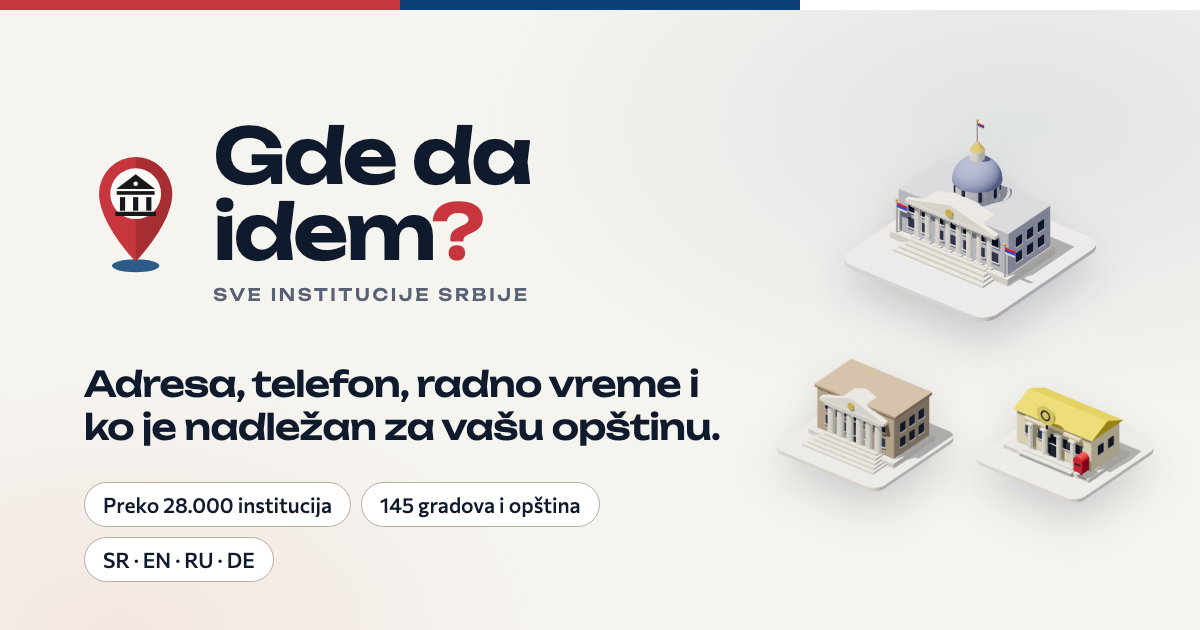
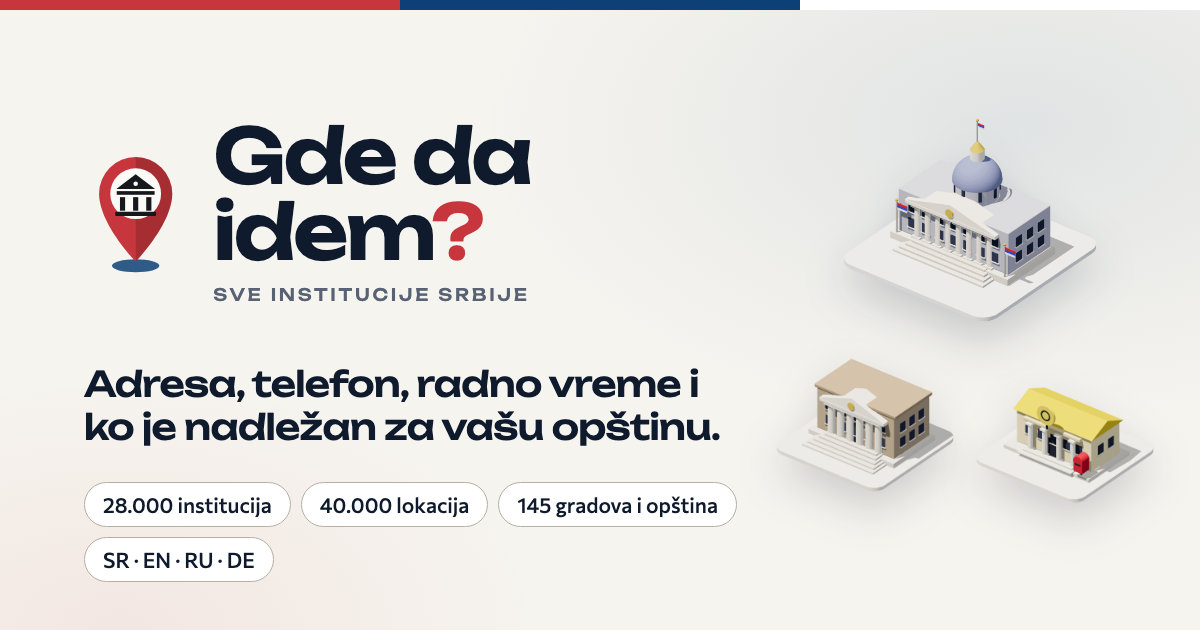
Home totals count places you can go: institutions and locations side by side
The opener and the index tab show the number of locations (seats, branches, buildings, branch schools); the card heading gives both figures and says what a location is. Share image updated.

Changed region(s): [[0.0617, 0.7841, 0.6167, 0.8444]]

diff --git a/apps/web/components/pages.tsx b/apps/web/components/pages.tsx
@@ -123,6 +123,8 @@ export async function Home({ locale }: { locale: Locale }) {
   const allGuides = locale === "sr" ? "Svi vodiči" : locale === "en" ? "All guides" : locale === "ru" ? "Все инструкции" : "Alle Anleitungen";
   const typesLabel = locale === "sr" ? "vrsta institucija" : locale === "en" ? "institution types" : locale === "ru" ? "типов учреждений" : "Einrichtungsarten";
   const mapTitle = locale === "sr" ? "25 okruga, 145 gradova i opština" : locale === "en" ? "25 districts, 145 cities and municipalities" : locale === "ru" ? "25 округов, 145 городов и общин" : "25 Bezirke, 145 Städte und Gemeinden";
+  const locWord = pick(locale, "lokacija", "locations", "адресов", "Standorte");
+  const locLabelLong = pick(locale, "lokacija javnih i privatnih institucija", "locations of public and private institutions", "адресов государственных и частных учреждений", "Standorte öffentlicher und privater Einrichtungen");
   const popular = locale === "sr" ? "Najčešće traženo" : locale === "en" ? "Most searched" : locale === "ru" ? "Часто ищут" : "Häufig gesucht";
   const byGroupAll = GROUPS.map((g) => ({ g, types: types.filter((x) => x.group === g && x.org_count > 0), total: types.filter((x) => x.group === g).reduce((n, x) => n + x.org_count, 0) }));
   const maxGroup = Math.max(1, ...byGroupAll.map((x) => x.total));
@@ -135,7 +137,7 @@ export async function Home({ locale }: { locale: Locale }) {
   return (
     <main id="main">
       {siteLd(locale, d.tagline).map((x, i) => <script key={i} type="application/ld+json" dangerouslySetInnerHTML={{ __html: JSON.stringify(x) }} />)}
-      <Opener words={d.siteName.split(" ")} eyebrow={`${pick(locale, "Republika Srbija", "Republic of Serbia", "Республика Сербия", "Republik Serbien")} · ${new Date().getFullYear()}`} count={stats.orgs} countLabel={d.openerLabel} />
+      <Opener words={d.siteName.split(" ")} eyebrow={`${pick(locale, "Republika Srbija", "Republic of Serbia", "Республика Сербия", "Republik Serbien")} · ${new Date().getFullYear()}`} count={stats.locations} countLabel={locLabelLong} />
       <HeroFX />
       {/* Opening: the search and the 3D map are the centrepiece */}
       <section className="hero-open hero-map border-b border-line">
@@ -162,7 +164,7 @@ export async function Home({ locale }: { locale: Locale }) {
           </div>
           {/* index tabs: the three areas below hang off the map; each tab opens its dossier */}
           <nav className="hero-index" aria-label={T.browse}>
-            {[{ id: "vodici", n: guides.length, l: guidesWord, t: guidesTitle }, { id: "putokaz", n: ROADMAPS.length, l: ROAD_LABELS[locale].count, t: T.bySituation }, { id: "vrste", n: stats.orgs, l: d.institutions, t: d.browseByCategory }, { id: "okruzi", n: stats.jls, l: d.municipalities, t: d.browseByRegion }].map((x, i) => (
+            {[{ id: "vodici", n: guides.length, l: guidesWord, t: guidesTitle }, { id: "putokaz", n: ROADMAPS.length, l: ROAD_LABELS[locale].count, t: T.bySituation }, { id: "vrste", n: stats.locations, l: locWord, t: d.browseByCategory }, { id: "okruzi", n: stats.jls, l: d.municipalities, t: d.browseByRegion }].map((x, i) => (
               <a key={x.id} href={`#${x.id}`} className="hero-index-card" style={{ "--i": i } as React.CSSProperties}>
                 <span className="tab" aria-hidden>{String(i + 1).padStart(2, "0")}</span>
                 <span className="num" data-count={x.n}>{x.n.toLocaleString(locale === "sr" ? "sr-Latn" : locale)}</span>
@@ -210,7 +212,7 @@ export async function Home({ locale }: { locale: Locale }) {
             </div>,
             <div key="vrste" className="band tex-mesh dossier">
               <div className="section-head">
-                <div><h2 className="display-sm">{stats.orgs.toLocaleString(locale === "sr" ? "sr-Latn" : locale)} {d.institutions}, {stats.types} {typesLabel}</h2></div>
+                <div><h2 className="display-sm">{stats.orgs.toLocaleString(locale === "sr" ? "sr-Latn" : locale)} {d.institutions}, {stats.locations.toLocaleString(locale === "sr" ? "sr-Latn" : locale)} {locWord}</h2><p className="text-muted mt-2 text-[14.5px]">{stats.types} {typesLabel}. {pick(locale, "Lokacija je svako mesto na koje možete otići: sedište, filijala, ispostava, vrtić, područna škola.", "A location is every place you can go to: a seat, a branch, an office, a kindergarten, a branch school.", "Адрес: любое место, куда можно прийти: главный офис, филиал, отделение, детский сад, филиал школы.", "Ein Standort ist jeder Ort, den Sie aufsuchen können: Sitz, Filiale, Außenstelle, Kindergarten, Zweigschule.")}</p></div>
               </div>
               <div className="bento">
                 {byGroupAll.filter((x) => x.total > 0).map(({ g, types: ts, total }, i) => { return (
